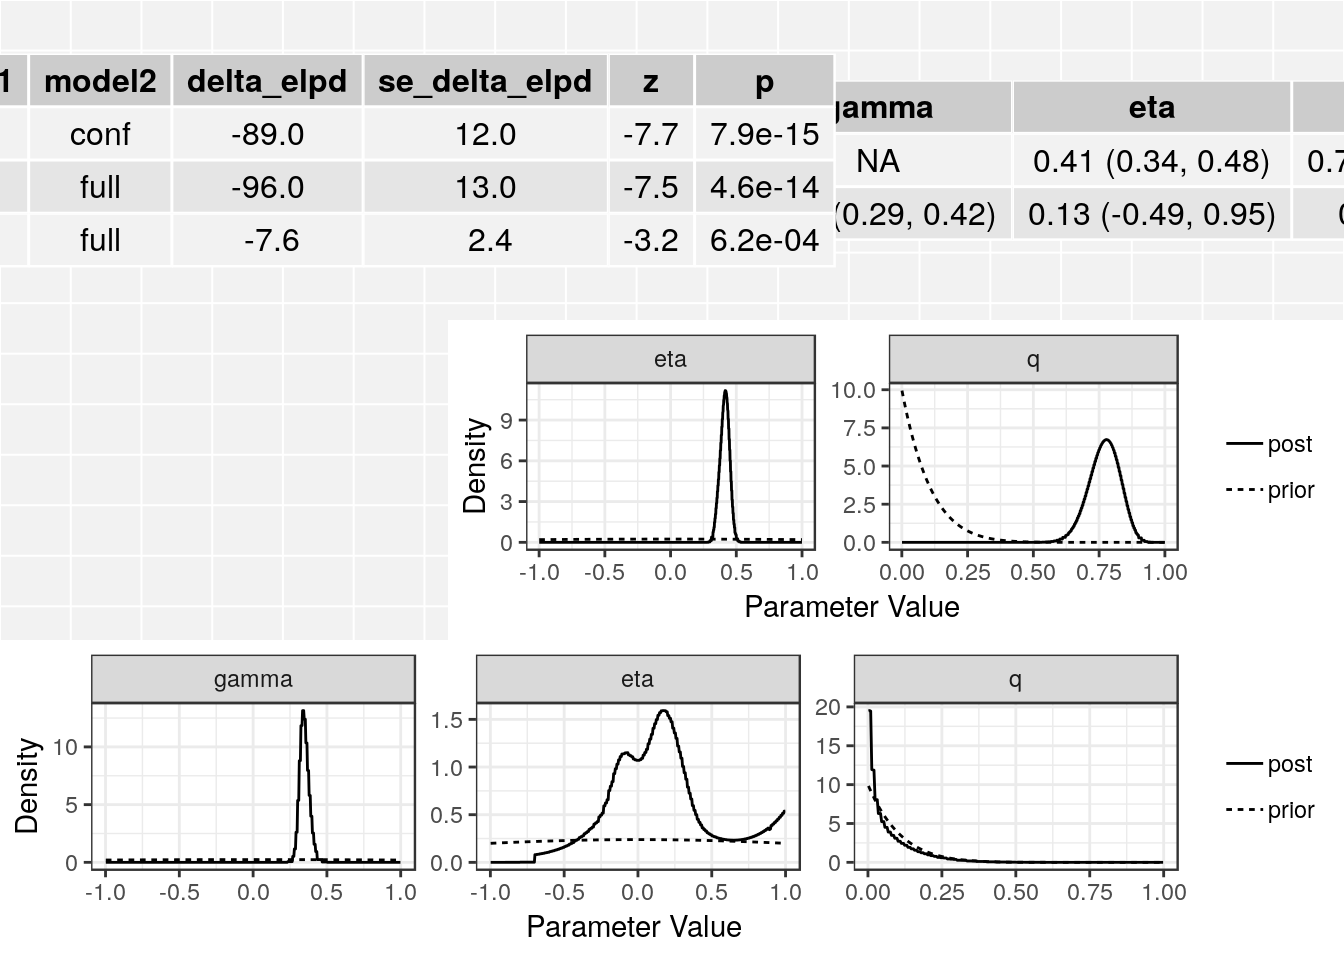
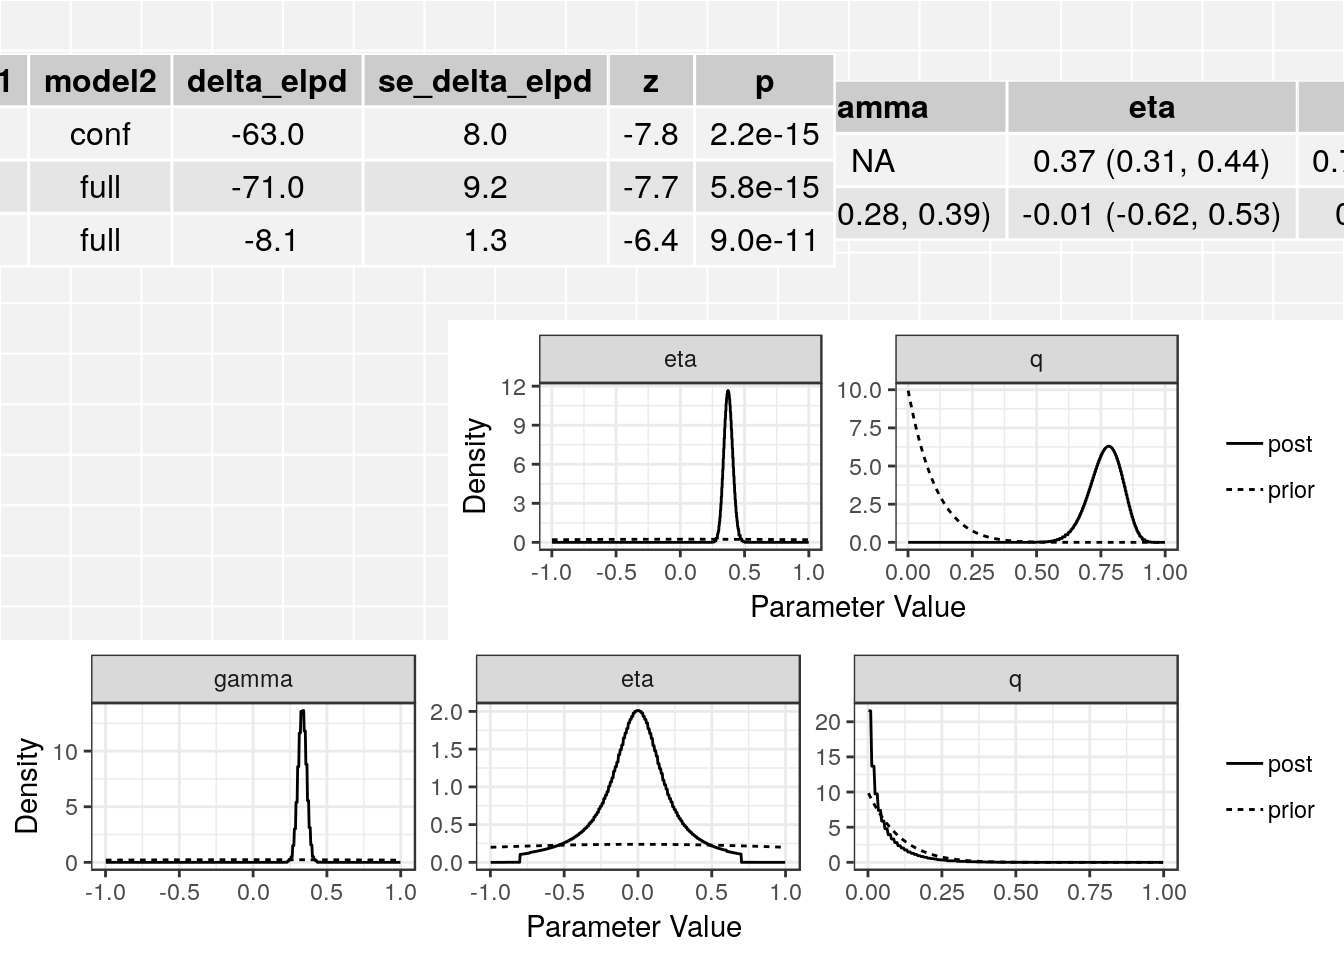
Build site.

diff --git a/docs/ldl_cad.html b/docs/ldl_cad.html
@@ -353,7 +353,7 @@ div.section {
 </details>
 </li>
 <li>
-<p><details> <summary> <strong style="color:blue;">✔</strong> <strong>Repository version:</strong> <a href="https://github.com/jean997/cause/tree/8f3b82e734b124b6d4d9d28b9defcce8d3726410" target="_blank">8f3b82e</a> </summary></p>
+<p><details> <summary> <strong style="color:blue;">✔</strong> <strong>Repository version:</strong> <a href="https://github.com/jean997/cause/tree/0e352686c547156d6b4f7085d5779325717090c9" target="_blank">0e35268</a> </summary></p>
 Great! You are using Git for version control. Tracking code development and connecting the code version to the results is critical for reproducibility. The version displayed above was the version of the Git repository at the time these results were generated. <br><br> Note that you need to be careful to ensure that all relevant files for the analysis have been committed to Git prior to generating the results (you can use <code>wflow_publish</code> or <code>wflow_git_commit</code>). workflowr only checks the R Markdown file, but you know if there are other scripts or data files that it depends on. Below is the status of the Git repository when the results were generated:
 <pre><code>
 Ignored files:
@@ -385,11 +385,6 @@ Untracked files:
     Untracked:  src/log_likelihood_functions.o
     Untracked:  test_data/
 
-Unstaged changes:
-    Modified:   R/map_pi_rho.R
-    Modified:   README.md
-    Modified:   analysis/_site.yml
-
 </code></pre>
 Note that any generated files, e.g. HTML, png, CSS, etc., are not included in this status report because it is ok for generated content to have uncommitted changes. </details>
 </li>
@@ -417,6 +412,40 @@ Message
 </tr>
 </thead>
 <tbody>
+<tr>
+<td style="text-align:left;">
+Rmd
+</td>
+<td style="text-align:left;">
+<a href="https://github.com/jean997/cause/blob/0e352686c547156d6b4f7085d5779325717090c9/analysis/ldl_cad.Rmd" target="_blank">0e35268</a>
+</td>
+<td style="text-align:left;">
+Jean Morrison
+</td>
+<td style="text-align:left;">
+2019-06-25
+</td>
+<td style="text-align:left;">
+wflow_publish(files = c(“analysis/ldl_cad.Rmd”))
+</td>
+</tr>
+<tr>
+<td style="text-align:left;">
+html
+</td>
+<td style="text-align:left;">
+<a href="https://cdn.rawgit.com/jean997/cause/286f4e9e0a432565b96c38bba3a1b155c02f9a78/docs/ldl_cad.html" target="_blank">286f4e9</a>
+</td>
+<td style="text-align:left;">
+Jean Morrison
+</td>
+<td style="text-align:left;">
+2019-06-25
+</td>
+<td style="text-align:left;">
+Build site.
+</td>
+</tr>
 <tr>
 <td style="text-align:left;">
 Rmd
@@ -745,14 +774,13 @@ head(X)</code></pre>
 <h2>Step 3: Calculate nuisance parameters</h2>
 <p>The next step is to estimate the parameters that define the prior distribution of <span class="math inline">\(\beta_{M}\)</span> and <span class="math inline">\(\theta\)</span> and to estimate <span class="math inline">\(\rho\)</span>, the correlation between summary statistics that is due to sample overlap or population structure. We will do this with a random subset of 1,000,000 variants since our data set is large. This step takes a few minutes. <code>est_cause_params</code> estimates the nuisance parameters by finding the maximum a posteriori estimate of <span class="math inline">\(\rho\)</span> and the mixing parameters when <span class="math inline">\(\gamma = \eta = 0\)</span>.</p>
 <pre class="r"><code>set.seed(100)
-varlist &lt;- with(X, sample(snp, size=1000, replace=FALSE))
+varlist &lt;- with(X, sample(snp, size=100000, replace=FALSE))
 params &lt;- est_cause_params(X, varlist)</code></pre>
-<pre><code>Warning in est_cause_params(X, varlist): Fewer than 100,000 variants are being used to estimate parametrs. This can cause problems and is not recomended. You are using 1000 variants.</code></pre>
-<pre><code>Estimating CAUSE parameters with  1000  variants.
-1 0.06576737 
-2 0.0001628123 
-3 1.356755e-06 
-4 1.137657e-08 </code></pre>
+<pre><code>Estimating CAUSE parameters with  100000  variants.
+1 0.06583041 
+2 0.0003043269 
+3 3.807672e-06 
+4 4.757768e-08 </code></pre>
 <p>The object <code>params</code> is of class <code>cause_params</code> and contains information about the fit as well as the maximum a posteriori estimates of the mixing parameters (<span class="math inline">\(\pi\)</span>) and <span class="math inline">\(\rho\)</span>. The object <code>params$mix_grid</code> is a data frame defining the distribution of summary statistics. The column <code>S1</code> is the variance for trait 1 (<span class="math inline">\(M\)</span>), the column <code>S2</code> is the variance for trait 2 (<span class="math inline">\(Y\)</span>) and the column <code>pi</code> is the mixture proportion assigned to that variance combination.</p>
 <pre class="r"><code>class(params)</code></pre>
 <pre><code>[1] &quot;cause_params&quot;</code></pre>
@@ -760,16 +788,16 @@ params &lt;- est_cause_params(X, varlist)</code></pre>
 <pre><code> [1] &quot;rho&quot;       &quot;pi&quot;        &quot;mix_grid&quot;  &quot;loglik&quot;    &quot;PIS&quot;      
  [6] &quot;RHO&quot;       &quot;LLS&quot;       &quot;converged&quot; &quot;prior&quot;     &quot;var&quot;      </code></pre>
 <pre class="r"><code>params$rho</code></pre>
-<pre><code>[1] 0.06593155</code></pre>
+<pre><code>[1] 0.0661386</code></pre>
 <pre class="r"><code>head(params$mix_grid)</code></pre>
-<pre><code>           S1          S2          pi
-1 0.000000000 0.000000000 0.815753781
-2 0.013908181 0.000000000 0.002105476
-3 0.000000000 0.007844385 0.057657635
-4 0.000000000 0.011093636 0.024880545
-5 0.006954091 0.011093636 0.089703755
-6 0.006954091 0.044374542 0.003608351</code></pre>
-<p>So, for example, in this case, we have estimated that 82% of variants have trait 1 variance and trait 2 equal to 0 meaning that they have no association with either trait.</p>
+<pre><code>           S1          S2           pi
+1 0.000000000 0.000000000 0.3633618165
+2 0.018428547 0.000000000 0.0002364998
+3 0.000000000 0.003844598 0.2331996101
+4 0.000000000 0.005437082 0.0660832658
+5 0.003257738 0.005437082 0.2505817165
+6 0.004607137 0.010874164 0.0472852839</code></pre>
+<p>So, for example, in this case, we have estimated that 36% of variants have trait 1 variance and trait 2 equal to 0 meaning that they have no association with either trait.</p>
 <p>Tip: Do not try to estimate the nuisance parameters with substantially fewer than 100,000 variants. This can lead to poor estimates of the mixing parameters whih leads to bad model comparisons.</p>
 </div>
 <div id="step-3-ld-pruning" class="section level2">
@@ -858,9 +886,9 @@ res &lt;- cause(X=X, variants = top_vars, param_ests = params)</code></pre>
 [8] &quot;qbeta&quot;  </code></pre>
 <pre class="r"><code>res$elpd</code></pre>
 <pre><code>  model1 model2 delta_elpd se_delta_elpd         z
-1   null   conf -88.612698     11.536941 -7.680780
-2   null   full -96.261665     12.918901 -7.451227
-3   conf   full  -7.648967      2.367442 -3.230900</code></pre>
+1   null   conf -63.085956      8.041388 -7.845157
+2   null   full -71.201974      9.222390 -7.720555
+3   conf   full  -8.116018      1.272459 -6.378216</code></pre>
 <pre class="r"><code>class(res$conf)</code></pre>
 <pre><code>[1] &quot;cause_post&quot;</code></pre>
 <pre class="r"><code>class(res$full)</code></pre>
@@ -872,7 +900,7 @@ res &lt;- cause(X=X, variants = top_vars, param_ests = params)</code></pre>
 <li>se_delta_elpd: Estimated standard error of delta_elpd</li>
 <li>z: delta_elpd/se_delta_elpd. A z-score that can be compared to a normal distribution to test if the difference in model fit is significant.</li>
 </ul>
-<p>In this case we see that the full (causal) model is significantly better than the confounding model from the thrid line of the table. The <span class="math inline">\(z\)</span>-score is -3.23 corresponding to a p-value of 6.210^{-4}.</p>
+<p>In this case we see that the full (causal) model is significantly better than the confounding model from the thrid line of the table. The <span class="math inline">\(z\)</span>-score is -6.38 corresponding to a p-value of 910^{-11}.</p>
 <p>For each model (partial sharing and full) we can plot the posterior distributions of the parameters. Dotted lines show the prior distributions.</p>
 <pre class="r"><code>plot(res$conf)</code></pre>
 <p><img src="figure/ldl_cad.Rmd/plot1-1.png" width="672" style="display: block; margin: auto;" /></p>
@@ -892,6 +920,17 @@ Date
 </tr>
 </thead>
 <tbody>
+<tr>
+<td style="text-align:left;">
+<a href="https://github.com/jean997/cause/blob/286f4e9e0a432565b96c38bba3a1b155c02f9a78/docs/figure/ldl_cad.Rmd/plot1-1.png" target="_blank">286f4e9</a>
+</td>
+<td style="text-align:left;">
+Jean Morrison
+</td>
+<td style="text-align:left;">
+2019-06-25
+</td>
+</tr>
 <tr>
 <td style="text-align:left;">
 <a href="https://github.com/jean997/cause/blob/4a8f76ccd2554d1f46985507b41899ced9e02a3e/docs/figure/ldl_cad.Rmd/plot1-1.png" target="_blank">4a8f76c</a>
@@ -959,6 +998,17 @@ Date
 <tbody>
 <tr>
 <td style="text-align:left;">
+<a href="https://github.com/jean997/cause/blob/286f4e9e0a432565b96c38bba3a1b155c02f9a78/docs/figure/ldl_cad.Rmd/plot1-2.png" target="_blank">286f4e9</a>
+</td>
+<td style="text-align:left;">
+Jean Morrison
+</td>
+<td style="text-align:left;">
+2019-06-25
+</td>
+</tr>
+<tr>
+<td style="text-align:left;">
 <a href="https://github.com/jean997/cause/blob/4a8f76ccd2554d1f46985507b41899ced9e02a3e/docs/figure/ldl_cad.Rmd/plot1-2.png" target="_blank">4a8f76c</a>
 </td>
 <td style="text-align:left;">
@@ -1006,14 +1056,14 @@ Jean Morrison
 <p></details></p>
 <p>The <code>summary</code> method will summarize the posterior medians and credible intervals.</p>
 <pre class="r"><code>summary(res, ci_size=0.95)</code></pre>
-<pre><code>p-value testing that causal model is a better fit:  0.00062 
+<pre><code>p-value testing that causal model is a better fit:  9e-11 
 Posterior medians and  95 % credible intervals:
-     model              gamma               eta                 
-[1,] &quot;Confounding Only&quot; NA                  &quot;0.41 (0.34, 0.48)&quot; 
-[2,] &quot;Causal&quot;           &quot;0.35 (0.29, 0.42)&quot; &quot;0.13 (-0.49, 0.95)&quot;
+     model              gamma               eta                  
+[1,] &quot;Confounding Only&quot; NA                  &quot;0.37 (0.31, 0.44)&quot;  
+[2,] &quot;Causal&quot;           &quot;0.33 (0.28, 0.39)&quot; &quot;-0.01 (-0.62, 0.53)&quot;
      q                  
-[1,] &quot;0.77 (0.65, 0.88)&quot;
-[2,] &quot;0.04 (0, 0.3)&quot;    </code></pre>
+[1,] &quot;0.77 (0.63, 0.88)&quot;
+[2,] &quot;0.03 (0, 0.25)&quot;   </code></pre>
 <p>The <code>plot</code> method applied to a <code>cause</code> object will arrange all of this information on one spread.</p>
 <pre class="r"><code>plot(res)</code></pre>
 <p><img src="figure/ldl_cad.Rmd/plot2-1.png" width="672" style="display: block; margin: auto;" /></p>
@@ -1033,6 +1083,17 @@ Date
 </tr>
 </thead>
 <tbody>
+<tr>
+<td style="text-align:left;">
+<a href="https://github.com/jean997/cause/blob/286f4e9e0a432565b96c38bba3a1b155c02f9a78/docs/figure/ldl_cad.Rmd/plot2-1.png" target="_blank">286f4e9</a>
+</td>
+<td style="text-align:left;">
+Jean Morrison
+</td>
+<td style="text-align:left;">
+2019-06-25
+</td>
+</tr>
 <tr>
 <td style="text-align:left;">
 <a href="https://github.com/jean997/cause/blob/4a8f76ccd2554d1f46985507b41899ced9e02a3e/docs/figure/ldl_cad.Rmd/plot2-1.png" target="_blank">4a8f76c</a>
@@ -1101,6 +1162,17 @@ Date
 <tbody>
 <tr>
 <td style="text-align:left;">
+<a href="https://github.com/jean997/cause/blob/286f4e9e0a432565b96c38bba3a1b155c02f9a78/docs/figure/ldl_cad.Rmd/plot3-1.png" target="_blank">286f4e9</a>
+</td>
+<td style="text-align:left;">
+Jean Morrison
+</td>
+<td style="text-align:left;">
+2019-06-25
+</td>
+</tr>
+<tr>
+<td style="text-align:left;">
 <a href="https://github.com/jean997/cause/blob/4a8f76ccd2554d1f46985507b41899ced9e02a3e/docs/figure/ldl_cad.Rmd/plot3-1.png" target="_blank">4a8f76c</a>
 </td>
 <td style="text-align:left;">
@@ -1137,7 +1209,8 @@ attached base packages:
 [1] stats     graphics  grDevices utils     datasets  methods   base     
 
 other attached packages:
-[1] bindrcpp_0.2.2   cause_0.2.0.0097 dplyr_0.7.6      readr_1.1.1     
+[1] workflowr_1.1.1  bindrcpp_0.2.2   cause_0.2.0.0097 dplyr_0.7.6     
+[5] readr_1.1.1     
 
 loaded via a namespace (and not attached):
  [1] tidyselect_0.2.4   ashr_2.2-32        purrr_0.2.5       
@@ -1147,21 +1220,20 @@ loaded via a namespace (and not attached):
 [13] pillar_1.3.1       glue_1.3.1         R.utils_2.7.0     
 [16] matrixStats_0.54.0 foreach_1.4.4      bindr_0.1.1       
 [19] plyr_1.8.4         stringr_1.3.1      munsell_0.5.0     
-[22] gtable_0.2.0       workflowr_1.1.1    R.methodsS3_1.7.1 
-[25] codetools_0.2-15   evaluate_0.11      labeling_0.3      
-[28] knitr_1.20         doParallel_1.0.14  pscl_1.5.2        
-[31] parallel_3.5.2     fansi_0.4.0        Rcpp_1.0.0        
-[34] backports_1.1.2    scales_1.0.0       RcppParallel_4.4.1
-[37] truncnorm_1.0-8    gridExtra_2.3      ggplot2_3.1.0     
-[40] hms_0.4.2          digest_0.6.18      stringi_1.2.4     
-[43] numDeriv_2016.8-1  grid_3.5.2         rprojroot_1.3-2   
-[46] cli_1.0.1          tools_3.5.2        magrittr_1.5      
-[49] lazyeval_0.2.1     tibble_2.0.0       crayon_1.3.4      
-[52] whisker_0.3-2      tidyr_0.8.1        pkgconfig_2.0.2   
-[55] MASS_7.3-50        Matrix_1.2-14      SQUAREM_2017.10-1 
-[58] assertthat_0.2.1   rmarkdown_1.10     iterators_1.0.10  
-[61] R6_2.4.0           intervals_0.15.1   git2r_0.23.0      
-[64] compiler_3.5.2    </code></pre>
+[22] gtable_0.2.0       R.methodsS3_1.7.1  codetools_0.2-15  
+[25] evaluate_0.11      labeling_0.3       knitr_1.20        
+[28] doParallel_1.0.14  pscl_1.5.2         parallel_3.5.2    
+[31] fansi_0.4.0        Rcpp_1.0.0         backports_1.1.2   
+[34] scales_1.0.0       RcppParallel_4.4.1 truncnorm_1.0-8   
+[37] gridExtra_2.3      ggplot2_3.1.0      hms_0.4.2         
+[40] digest_0.6.18      stringi_1.2.4      numDeriv_2016.8-1 
+[43] grid_3.5.2         rprojroot_1.3-2    cli_1.0.1         
+[46] tools_3.5.2        magrittr_1.5       lazyeval_0.2.1    
+[49] tibble_2.0.0       crayon_1.3.4       whisker_0.3-2     
+[52] tidyr_0.8.1        pkgconfig_2.0.2    MASS_7.3-50       
+[55] Matrix_1.2-14      SQUAREM_2017.10-1  assertthat_0.2.1  
+[58] rmarkdown_1.10     iterators_1.0.10   R6_2.4.0          
+[61] intervals_0.15.1   git2r_0.25.2       compiler_3.5.2    </code></pre>
 </div>
 
 <!-- Adjust MathJax settings so that all math formulae are shown using
